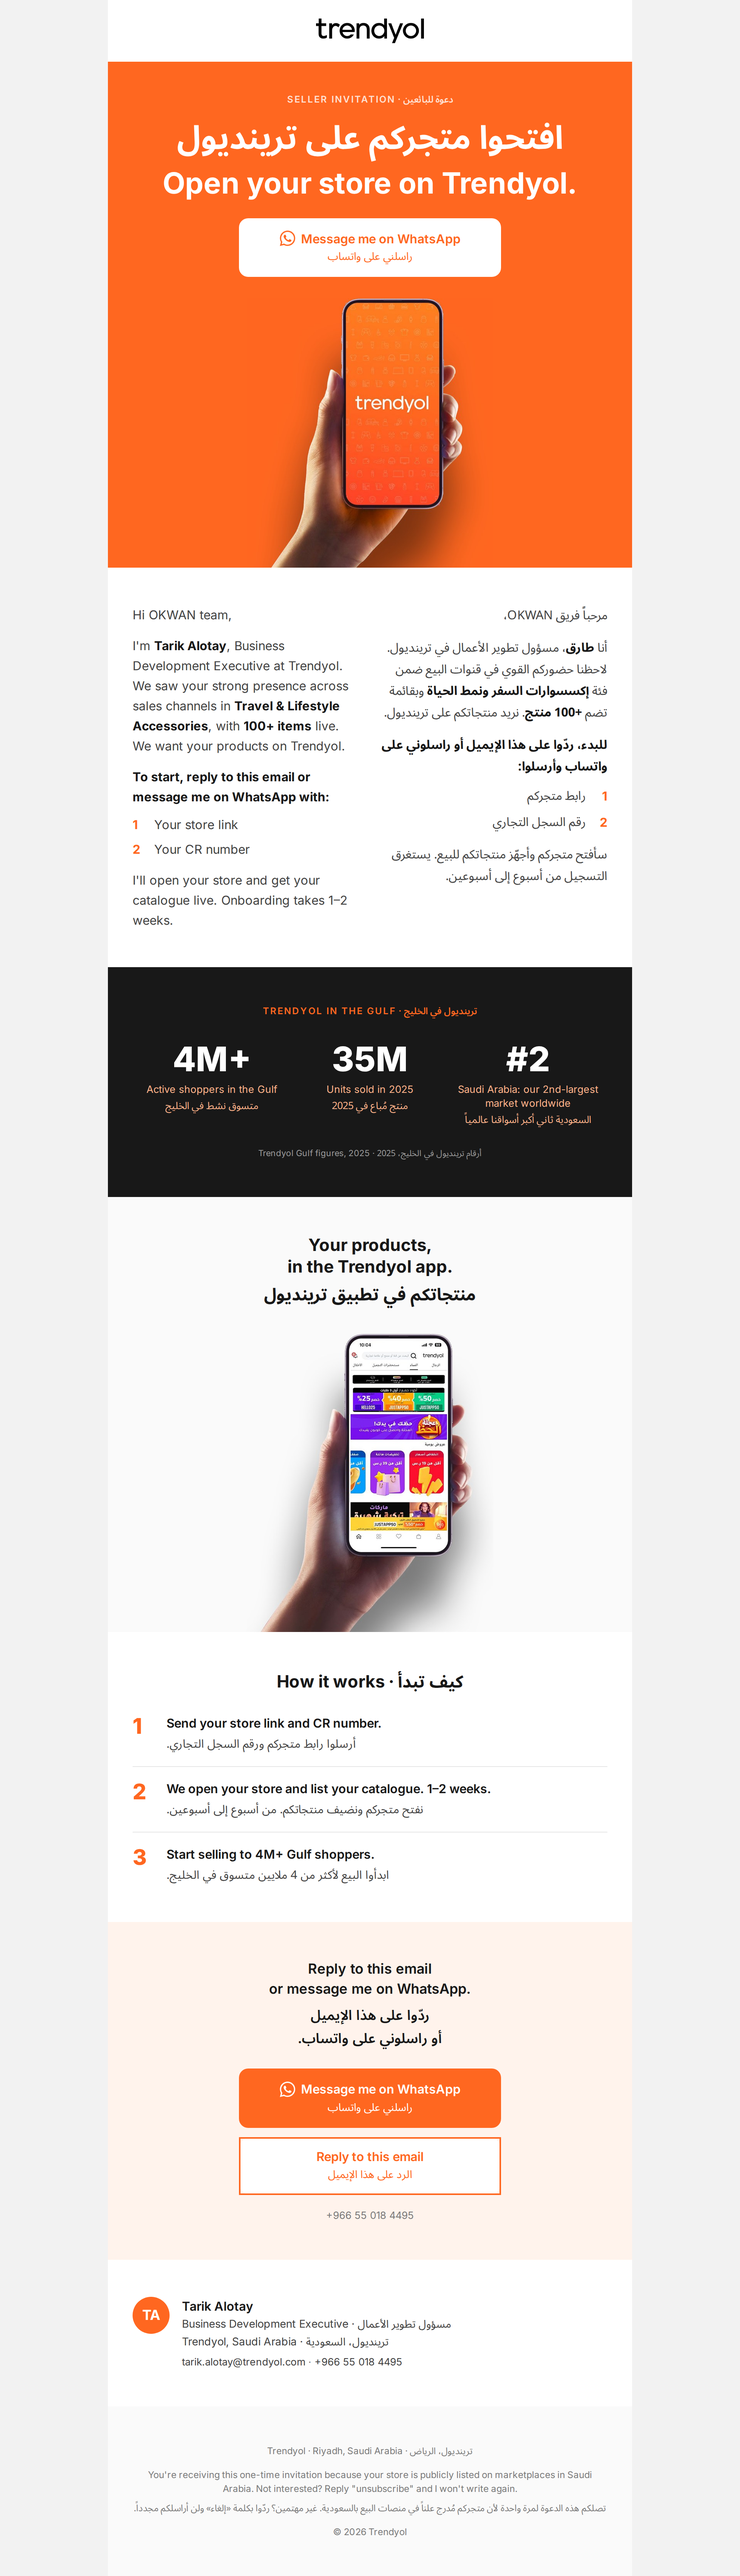
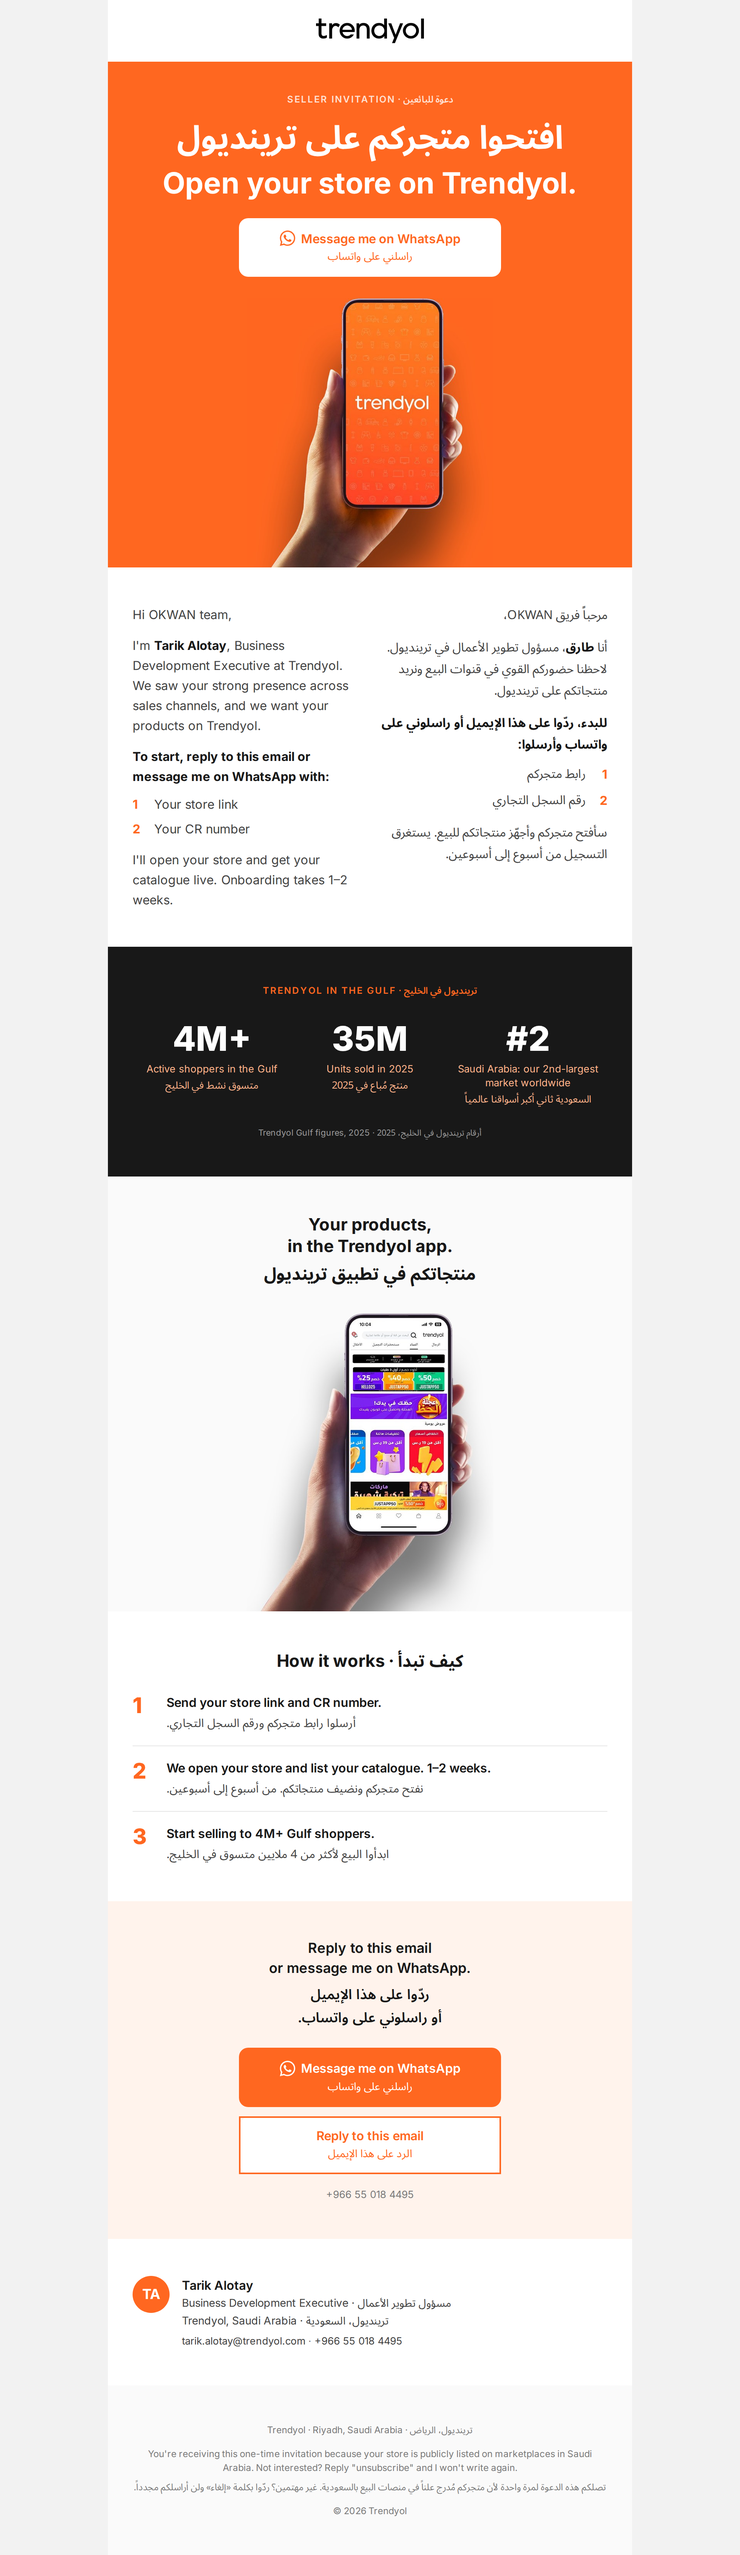
Simplify merge fields to the seller name only
Remove the category and item-count phrases from both language columns,
drop the category/category_ar/item_count fields from the sample data and
docs. The only per-seller field is now seller_name.

Claude-Session: https://claude.ai/code/session_01K3ZpNdL1jY4TwxZkSQMzGh

diff --git a/trendyol-seller-outreach-email/output/email-okwan-sample.html b/trendyol-seller-outreach-email/output/email-okwan-sample.html
@@ -121,7 +121,7 @@ a { color:#FF6720; }
 <td lang="ar" dir="rtl" align="right" style="padding:0 0 14px 0; text-align:right; font-family:'Noto Sans Arabic','Segoe UI',Tahoma,Arial,sans-serif; font-size:16px; line-height:28px; font-weight:400; color:#434343;">مرحباً فريق <span dir="ltr">OKWAN</span>،</td>
 </tr>
 <tr>
-<td lang="ar" dir="rtl" align="right" style="padding:0 0 14px 0; text-align:right; font-family:'Noto Sans Arabic','Segoe UI',Tahoma,Arial,sans-serif; font-size:16px; line-height:28px; font-weight:400; color:#434343;">أنا <strong style="font-weight:700; color:#181818;">طارق</strong>، مسؤول تطوير الأعمال في ترينديول. لاحظنا حضوركم القوي في قنوات البيع ضمن فئة <strong style="font-weight:700; color:#181818;">إكسسوارات السفر ونمط الحياة</strong> وبقائمة تضم <strong style="font-weight:700; color:#181818;"><span dir="ltr">100+</span> منتج</strong>. نريد منتجاتكم على ترينديول.</td>
+<td lang="ar" dir="rtl" align="right" style="padding:0 0 14px 0; text-align:right; font-family:'Noto Sans Arabic','Segoe UI',Tahoma,Arial,sans-serif; font-size:16px; line-height:28px; font-weight:400; color:#434343;">أنا <strong style="font-weight:700; color:#181818;">طارق</strong>، مسؤول تطوير الأعمال في ترينديول. لاحظنا حضوركم القوي في قنوات البيع ونريد منتجاتكم على ترينديول.</td>
 </tr>
 <tr>
 <td lang="ar" dir="rtl" align="right" style="padding:0 0 10px 0; text-align:right; font-family:'Noto Sans Arabic','Segoe UI',Tahoma,Arial,sans-serif; font-size:16px; line-height:28px; font-weight:700; color:#181818;">للبدء، ردّوا على هذا الإيميل أو راسلوني على واتساب وأرسلوا:</td>
@@ -163,7 +163,7 @@ a { color:#FF6720; }
 <td align="left" style="padding:0 0 14px 0; text-align:left; font-family:'Inter','Helvetica Neue',Helvetica,Arial,sans-serif; font-size:16px; line-height:26px; font-weight:400; color:#434343;">Hi OKWAN team,</td>
 </tr>
 <tr>
-<td align="left" style="padding:0 0 14px 0; text-align:left; font-family:'Inter','Helvetica Neue',Helvetica,Arial,sans-serif; font-size:16px; line-height:26px; font-weight:400; color:#434343;">I'm <strong style="font-weight:700; color:#181818;">Tarik Alotay</strong>, Business Development Executive at Trendyol. We saw your strong presence across sales channels in <strong style="font-weight:700; color:#181818;">Travel &amp; Lifestyle Accessories</strong>, with <strong style="font-weight:700; color:#181818;">100+ items</strong> live. We want your products on Trendyol.</td>
+<td align="left" style="padding:0 0 14px 0; text-align:left; font-family:'Inter','Helvetica Neue',Helvetica,Arial,sans-serif; font-size:16px; line-height:26px; font-weight:400; color:#434343;">I'm <strong style="font-weight:700; color:#181818;">Tarik Alotay</strong>, Business Development Executive at Trendyol. We saw your strong presence across sales channels, and we want your products on Trendyol.</td>
 </tr>
 <tr>
 <td align="left" style="padding:0 0 10px 0; text-align:left; font-family:'Inter','Helvetica Neue',Helvetica,Arial,sans-serif; font-size:16px; line-height:26px; font-weight:700; color:#181818;">To start, reply to this email or message me on WhatsApp with:</td>

diff --git a/trendyol-seller-outreach-email/email.html b/trendyol-seller-outreach-email/email.html
@@ -121,7 +121,7 @@ a { color:#FF6720; }
 <td lang="ar" dir="rtl" align="right" style="padding:0 0 14px 0; text-align:right; font-family:'Noto Sans Arabic','Segoe UI',Tahoma,Arial,sans-serif; font-size:16px; line-height:28px; font-weight:400; color:#434343;">مرحباً فريق <span dir="ltr">{{seller_name}}</span>،</td>
 </tr>
 <tr>
-<td lang="ar" dir="rtl" align="right" style="padding:0 0 14px 0; text-align:right; font-family:'Noto Sans Arabic','Segoe UI',Tahoma,Arial,sans-serif; font-size:16px; line-height:28px; font-weight:400; color:#434343;">أنا <strong style="font-weight:700; color:#181818;">طارق</strong>، مسؤول تطوير الأعمال في ترينديول. لاحظنا حضوركم القوي في قنوات البيع ضمن فئة <strong style="font-weight:700; color:#181818;">{{category_ar}}</strong> وبقائمة تضم <strong style="font-weight:700; color:#181818;"><span dir="ltr">{{item_count}}</span> منتج</strong>. نريد منتجاتكم على ترينديول.</td>
+<td lang="ar" dir="rtl" align="right" style="padding:0 0 14px 0; text-align:right; font-family:'Noto Sans Arabic','Segoe UI',Tahoma,Arial,sans-serif; font-size:16px; line-height:28px; font-weight:400; color:#434343;">أنا <strong style="font-weight:700; color:#181818;">طارق</strong>، مسؤول تطوير الأعمال في ترينديول. لاحظنا حضوركم القوي في قنوات البيع ونريد منتجاتكم على ترينديول.</td>
 </tr>
 <tr>
 <td lang="ar" dir="rtl" align="right" style="padding:0 0 10px 0; text-align:right; font-family:'Noto Sans Arabic','Segoe UI',Tahoma,Arial,sans-serif; font-size:16px; line-height:28px; font-weight:700; color:#181818;">للبدء، ردّوا على هذا الإيميل أو راسلوني على واتساب وأرسلوا:</td>
@@ -163,7 +163,7 @@ a { color:#FF6720; }
 <td align="left" style="padding:0 0 14px 0; text-align:left; font-family:'Inter','Helvetica Neue',Helvetica,Arial,sans-serif; font-size:16px; line-height:26px; font-weight:400; color:#434343;">Hi {{seller_name}} team,</td>
 </tr>
 <tr>
-<td align="left" style="padding:0 0 14px 0; text-align:left; font-family:'Inter','Helvetica Neue',Helvetica,Arial,sans-serif; font-size:16px; line-height:26px; font-weight:400; color:#434343;">I'm <strong style="font-weight:700; color:#181818;">Tarik Alotay</strong>, Business Development Executive at Trendyol. We saw your strong presence across sales channels in <strong style="font-weight:700; color:#181818;">{{category}}</strong>, with <strong style="font-weight:700; color:#181818;">{{item_count}} items</strong> live. We want your products on Trendyol.</td>
+<td align="left" style="padding:0 0 14px 0; text-align:left; font-family:'Inter','Helvetica Neue',Helvetica,Arial,sans-serif; font-size:16px; line-height:26px; font-weight:400; color:#434343;">I'm <strong style="font-weight:700; color:#181818;">Tarik Alotay</strong>, Business Development Executive at Trendyol. We saw your strong presence across sales channels, and we want your products on Trendyol.</td>
 </tr>
 <tr>
 <td align="left" style="padding:0 0 10px 0; text-align:left; font-family:'Inter','Helvetica Neue',Helvetica,Arial,sans-serif; font-size:16px; line-height:26px; font-weight:700; color:#181818;">To start, reply to this email or message me on WhatsApp with:</td>

diff --git a/trendyol-seller-outreach-email/DESIGN.md b/trendyol-seller-outreach-email/DESIGN.md
@@ -66,8 +66,7 @@ Assets (all in `assets/`, 2x for retina):
 
 ## 3. Content (final copy)
 
-Merge fields: `{{seller_name}}`, `{{category}}` (English), `{{category_ar}}` (Arabic),
-`{{item_count}}`, `{{seller_name_url}}` (URL-encoded seller name, derived by the script).
+Merge fields: `{{seller_name}}` only, plus `{{seller_name_url}}` (URL-encoded seller name, derived by the script).
 
 Subject line (A/B):
 - A: `{{seller_name}} × Trendyol: open your store · افتحوا متجركم على ترينديول`
@@ -98,7 +97,7 @@ Wordmark `assets/trendyol-logo.png`, 140px wide, alt `trendyol`, padding 24px to
 Arabic column (right on PC, first on phone; `dir="rtl" lang="ar"`, text right-aligned, Noto Sans Arabic 16px/28, colour `#434343`):
 > مرحباً فريق {{seller_name}}،
 >
-> أنا **طارق**، مسؤول تطوير الأعمال في ترينديول. لاحظنا حضوركم القوي في قنوات البيع ضمن فئة **{{category_ar}}** وبقائمة تضم **{{item_count}} منتج**. نريد منتجاتكم على ترينديول.
+> أنا **طارق**، مسؤول تطوير الأعمال في ترينديول. لاحظنا حضوركم القوي في قنوات البيع، ونريد منتجاتكم على ترينديول.
 >
 > **للبدء، ردّوا على هذا الإيميل أو راسلوني على واتساب وأرسلوا:**
 > 1. رابط متجركم
@@ -109,7 +108,7 @@ Arabic column (right on PC, first on phone; `dir="rtl" lang="ar"`, text right-al
 English column (left on PC, second on phone; `dir="ltr" lang="en"`, left-aligned, Inter 16px/26, `#434343`):
 > Hi {{seller_name}} team,
 >
-> I'm **Tarik Alotay**, Business Development Executive at Trendyol. We saw your strong presence across sales channels in **{{category}}**, with **{{item_count}} items** live. We want your products on Trendyol.
+> I'm **Tarik Alotay**, Business Development Executive at Trendyol. We saw your strong presence across sales channels, and we want your products on Trendyol.
 >
 > **To start, reply to this email or message me on WhatsApp with:**
 > 1. Your store link

diff --git a/trendyol-seller-outreach-email/README.md b/trendyol-seller-outreach-email/README.md
@@ -26,9 +26,6 @@ Full rationale, copy and layout rules are in `DESIGN.md`.
 | Field | Example | Notes |
 |---|---|---|
 | `{{seller_name}}` | `OKWAN` | Store or brand name exactly as the seller writes it. |
-| `{{category}}` | `Travel & Lifestyle Accessories` | Main category on their current channels, English. |
-| `{{category_ar}}` | `إكسسوارات السفر ونمط الحياة` | Same category in Arabic. |
-| `{{item_count}}` | `100+` | Live item count on their current channels. Keep it honest; round down. |
 | `{{seller_name_url}}` | `OKWAN` | URL-encoded seller name for the WhatsApp and mailto links. Most ESPs can derive it; `render.js` does. |
 
 Subject lines (A/B):
@@ -43,13 +40,12 @@ Subject lines (A/B):
    `whatsapp-icon-orange.png`, `whatsapp-icon-white.png`. Base64 images are blocked by Gmail.
 2. **Check the sender address.** The template signs as `tarik.alotay@trendyol.com`.
    Send from that mailbox so replies land in the right inbox and DKIM/SPF align.
-3. **Fill the four seller fields per row** from the lead sheet. Never name another
-   marketplace; the copy only says "sales channels".
-4. **Verify OKWAN's item count** (the sample uses `100+` as a placeholder).
-5. Send a test to yourself on iPhone Mail, Gmail app (Android), Gmail web and Outlook.
+3. **Fill `seller_name` per row** from the lead sheet. It is the only per-seller field. Never name
+   another marketplace; the copy only says "sales channels".
+4. Send a test to yourself on iPhone Mail, Gmail app (Android), Gmail web and Outlook.
    Tap both buttons: WhatsApp opens a chat with a pre-filled message; the reply button
    opens a pre-addressed email.
-6. Keep the opt-out line in the footer.
+5. Keep the opt-out line in the footer.
 
 ## Re-rendering the previews
 
